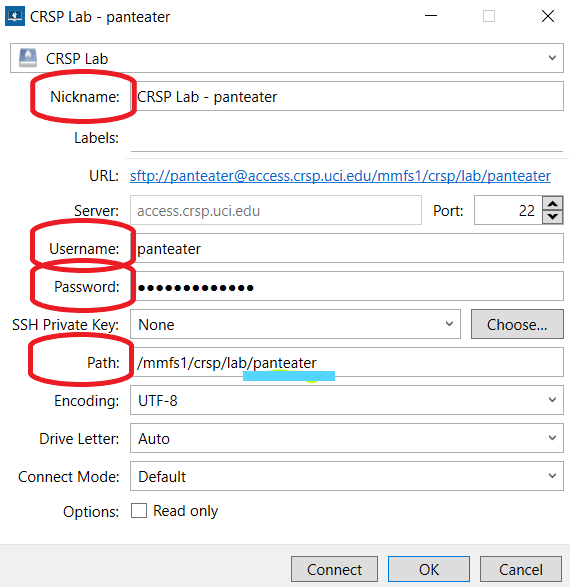
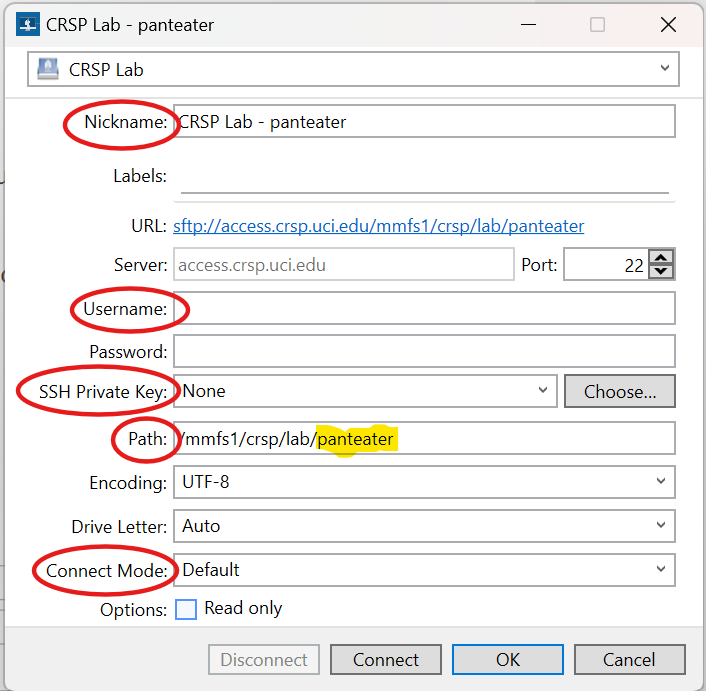
Document SSH keys for windows

Changed region(s): [[0.0, 0.0, 1.0, 1.0]]

diff --git a/docs/source/storage/crsp-clients.rst b/docs/source/storage/crsp-clients.rst
@@ -28,6 +28,8 @@ However, **ssh keys** with **strong passwords** is a *secure* method to to provi
 second factor of authentication. SSH keys managed properly do not require DUO after initial setup but still maintain
 strong security.  *Never copy an ssh private key file!*
 
+.. _crsp quick start:
+
 **Quick Start**
 
 1. You should follow the guide to :ref:`generate ssh keys` for different platforms. 
@@ -549,13 +551,13 @@ This will **Map CRSP Lab Share** as a folder on your laptop.
     * It is the UCNetID of your adviser, If you are a graduate student or post-doctoral researcher
 
   In this example configuration, we are going to use the following specific
-  information for user *npw* to access the *ppapadop* lab:
+  information for user *ppapadop* to access the *npw* lab:
 
-  * UCNetID - npw
-  * UCNetID of the CRSP lab owner - ppapadop
+  * UCNetID - ppapadop
+  * UCNetID of the CRSP lab owner - npw
 
-  You will edit 4 fields in the default bookmark: :guilabel:`Nickname`, :guilabel:`Username`, :guilabel:`Password`
-  and :guilabel:`Path`.
+  You will edit 5 fields in the default bookmark: :guilabel:`Nickname`, :guilabel:`Username`, 
+  :guilabel:`SSH Private Key`, :guilabel:`Path`, and :guilabel:`Connect Mode`.
 
   .. figure:: images/win/win-panteater-default.png
      :align: center
@@ -564,7 +566,7 @@ This will **Map CRSP Lab Share** as a folder on your laptop.
 
      Figure 8: Default template bookmark
 
-  .. note:: Only the last part of the **Path** that represents your UCNetID (underlined)
+  .. note:: Only the last part of the **Path** that represents **CRSP Lab Owner's** UCNetID (highlighted)
             should be edited. The **/mmfs1/crsp/lab** must remain.
 
   .. note:: The **URL** is created from the information you type in other fields,
@@ -583,6 +585,16 @@ This will **Map CRSP Lab Share** as a folder on your laptop.
 
      Figure 9: Edited bookmark
 
+  .. note::  This uses an SSH key that you should have generated when following the 
+    :ref:`Quick Start <crsp quick start>` procedure for working effectively with DUO.
+    The corresponding public key should have also been :ref:`copied <manage crsp keys>`
+    to :tt:`~/.ssh/authorized_keys` on CRSP itself.
+
+
+  .. attention:: You should *change* the connect mode to **Online**. This keeps all files on CRSP
+                 and reduces local cache space. If you use CRSP from multiple clients, this the *most reliable*
+                 mechanism for keeping all data in sync.
+
 .. _windows connect share:
 
 Connect to Lab Share
@@ -600,6 +612,8 @@ you should see your edited bookmark.  For our example, it looks like the followi
 
 Click :guilabel:`connect` to open your share.
 At this point, your lab share is connected and you can use it just like a folder or network drive.
+If you are not running ssh-agent or CRSP desktop has not remembered your password, you should asked for the 
+*passphrase* to your ssh private key file that you specified.
 
 .. _windows add shares:
 
